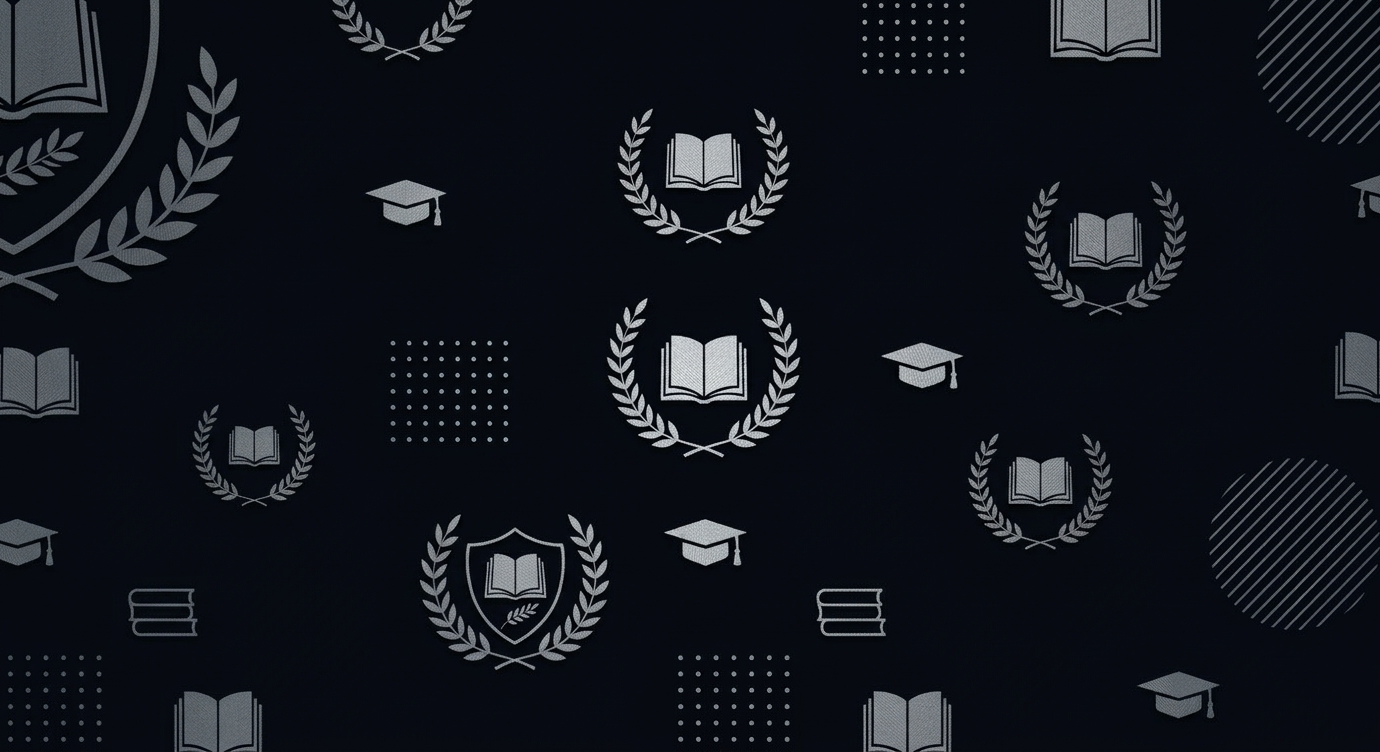
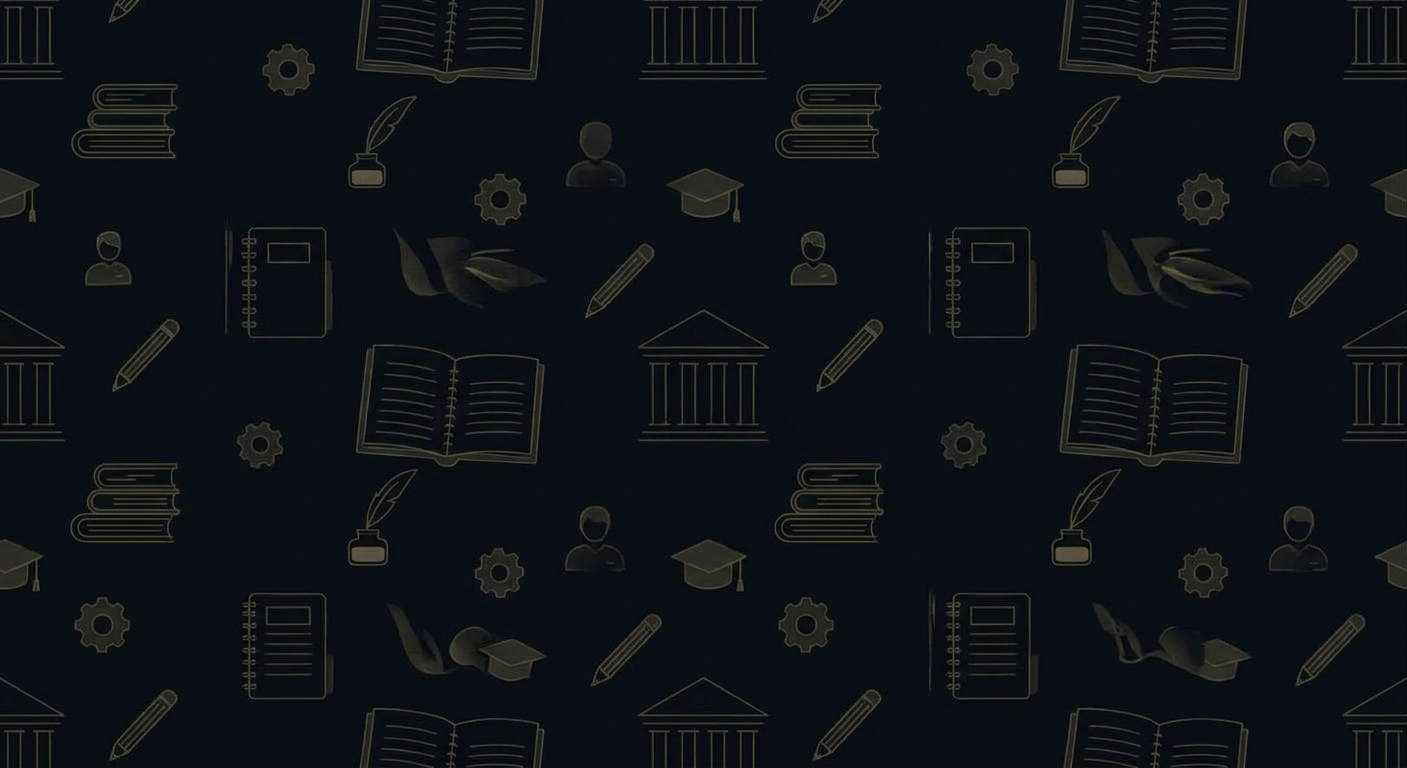
chore: sync assets and readme with current state
- Include the user-modified background artwork for light/dark themes
- Refresh README content to reflect the project scope

diff --git a/README.md b/README.md
@@ -2,8 +2,9 @@
 
 # FULGENCIA REGISTER - SPA
 
-**SPA de registro e inscripción estudiantil** para un liceo. Interfaz en JavaScript
-vanilla sin recarga de página, API REST en Express y base de datos MariaDB.
+**SPA de registro e inscripción estudiantil** para el Liceo Fulgencia Jiménez de Olmos, esta SPA se encargara de la administración de los datos de los estudiantes a la hora de la realización de las Inscripciones de los mismos, permitiendo una gestión fácil y segura, respaldando la información en una DB (MariaDB), asimismo, funcionara para la expedición automatizada de Documentos (Constancias y Cartas).
+
+> Interfaz en JavaScript vanilla sin recarga de página, API REST en Express y base de datos MariaDB en Docker.
 
 ## Estado del proyecto
 
